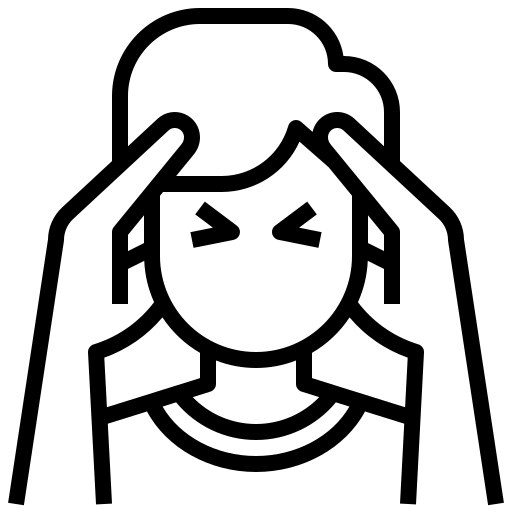
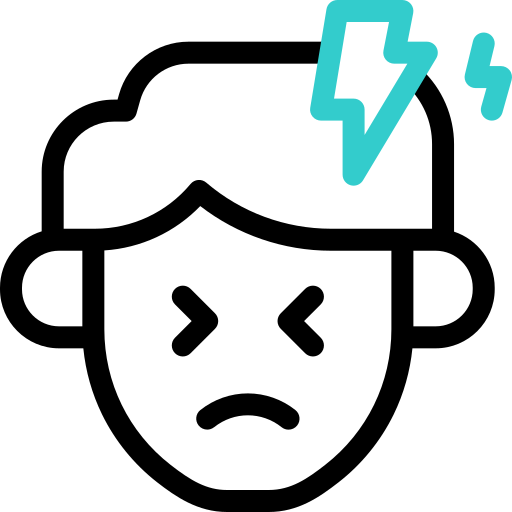
atualizações home

diff --git a/src/screens/Home/index.js b/src/screens/Home/index.js
@@ -1,19 +1,18 @@
 import { useState } from 'react';
-import { View, Text, TextInput, TouchableOpacity, FlatList, ScrollView } from 'react-native';
+import { View, Text, TextInput, TouchableOpacity, FlatList, ScrollView, Image } from 'react-native';
 import { useNavigation } from '@react-navigation/native';
-import LottieView from 'lottie-react-native';
 import styles from './styles';
 
 export default function Home() {
   const navigation = useNavigation();
   const [searchText, setSearchText] = useState('');
 
-  // Categorias com animações Lottie
+  // Categorias com imagens (ajuste os caminhos conforme sua pasta)
   const categorias = [
-    { id: '1', nome: 'Antialérgicos', animacao: require('../../../assets/animacao-alergia.json') },
-    { id: '2', nome: 'Analgésicos', animacao: require('../../../assets/animacao-analgesico.json') },
-    { id: '3', nome: 'Vitaminas', animacao: require('../../../assets/animacao-vitaminas.json') },
-    { id: '4', nome: 'Antibióticos', animacao: require('../../../assets/animacao-antibiotico.json') },
+    { id: '1', nome: 'Antialérgicos', imagem: require('../../../public/alergia.png') },
+    { id: '2', nome: 'Analgésicos', imagem: require('../../../public/dor-de-cabeca.png') },
+    { id: '3', nome: 'Vitaminas', imagem: require('../../../public/vitaminas.png') },
+    { id: '4', nome: 'Antibióticos', imagem: require('../../../public/antibiotico.png') },
   ];
 
   const produtosPromocao = [
@@ -32,14 +31,13 @@ export default function Home() {
     { id: '4', nome: 'HUGEIES', logo: 'H' },
   ];
 
+  // Ao clicar na categoria, navega para a tela Categoria passando o nome
   const renderCategoria = ({ item }) => (
-    <TouchableOpacity style={styles.categoriaItem}>
-      <LottieView
-        source={item.animacao}
-        autoPlay
-        loop
-        style={styles.categoriaIcon}
-      />
+    <TouchableOpacity
+      style={styles.categoriaItem}
+      onPress={() => navigation.navigate('Categoria', { nome: item.nome })}
+    >
+      <Image source={item.imagem} style={styles.categoriaIcon} resizeMode="contain" />
       <Text style={styles.categoriaNome}>{item.nome}</Text>
     </TouchableOpacity>
   );
@@ -78,7 +76,10 @@ export default function Home() {
     <View style={styles.container}>
       {/* Header */}
       <View style={styles.header}>
-        <Text style={styles.headerTitle}>Pharma</Text>
+        <Image
+          source={require('../../../public/LogoEscrita.png')} // ajuste o caminho conforme sua logo
+          style={styles.logo}
+        />
       </View>
 
       {/* Barra de Pesquisa */}
@@ -128,7 +129,7 @@ export default function Home() {
 
         {/* Marcas Populares */}
         <View style={styles.section}>
-          <Text style={styles.sectionTitle}>Marcas Populares</Text>
+          <Text style={styles.sectionTitle}>Laboratórios Populares</Text>
           <FlatList
             data={marcas}
             renderItem={renderMarca}

diff --git a/src/routes/bottonTab.js b/src/routes/bottonTab.js
@@ -1,18 +1,33 @@
 import { createBottomTabNavigator } from "@react-navigation/bottom-tabs";
+import { Ionicons } from '@expo/vector-icons';
 
 import Home from "../screens/Home";
 import Favoritos from "../screens/Favoritos";
 import Perfil from "../screens/Perfil";
 
-
 const Tab = createBottomTabNavigator();
 
 export default function BottonTab({ route }) {
-
     const { usuTemp } = route.params;
 
     return (
-        <Tab.Navigator>
+        <Tab.Navigator
+            screenOptions={({ route }) => ({
+                tabBarIcon: ({ color, size }) => {
+                    let iconName;
+                    if (route.name === 'Home') {
+                        iconName = 'home-outline';
+                    } else if (route.name === 'Favoritos') {
+                        iconName = 'heart-outline';
+                    } else if (route.name === 'Perfil') {
+                        iconName = 'person-outline';
+                    }
+                    return <Ionicons name={iconName} size={size} color={color} />;
+                },
+                tabBarActiveTintColor: '#3498db',
+                tabBarInactiveTintColor: '#888',
+            })}
+        >
             <Tab.Screen name="Home" component={Home} initialParams={{ usuTemp }} />
             <Tab.Screen name="Favoritos" component={Favoritos} />
             <Tab.Screen name="Perfil" component={Perfil} />

diff --git a/src/screens/Home/styles.js b/src/screens/Home/styles.js
@@ -8,9 +8,9 @@ export default StyleSheet.create({
         backgroundColor: '#f8f9fa',
     },
     header: {
-        paddingTop: 50,
+        paddingTop: 0,           // diminuído para aproximar do topo
         paddingHorizontal: 16,
-        paddingBottom: 10,
+        paddingBottom: 0,         // diminuído para aproximar da barra de pesquisa
         backgroundColor: '#fff',
         borderBottomWidth: 1,
         borderBottomColor: '#eee',
@@ -64,7 +64,8 @@ export default StyleSheet.create({
         width: 80,
     },
     categoriaIcon: {
-        fontSize: 30,
+        width: 48,
+        height: 48,
         marginBottom: 8,
     },
     categoriaNome: {
@@ -151,8 +152,11 @@ export default StyleSheet.create({
     espacoFinal: {
         height: 30,
     },
-    categoriaIcon: {
-        width: 48,
-        height: 48,
+    logo: {
+        width: 300,         // ajuste conforme necessário
+        height: 150,         // ajuste conforme necessário
+        resizeMode: 'contain',
+        alignSelf: 'center',
+        marginBottom: 0,
     },
 });

diff --git a/src/routes/stackNavigation.js b/src/routes/stackNavigation.js
@@ -4,7 +4,8 @@ import Login from '../screens/Login';
 import CadUsuario from '../screens/CadUsuario';
 import EsqSenha from '../screens/EsqSenha';
 import Home from '../screens/Home';
-import Pesquisa from '../screens/Pesquisa'; // <-- Adicione esta linha
+import Pesquisa from '../screens/Pesquisa';
+import Categoria from '../screens/Categoria'; // <-- Adicione esta linha
 import BottonTab from "./bottonTab";
 import { Button } from "@react-navigation/elements";
 
@@ -30,6 +31,14 @@ export default function Tab() {
                 component={Pesquisa}
                 options={{
                     headerShown: false,
+                }}
+            />
+            <Stack.Screen
+                name="Categoria"
+                component={Categoria}
+                options={{
+                    headerShown: true,
+                    title: 'Categoria',
                 }}
             />
         </Stack.Navigator>

diff --git a/src/screens/Categoria/index.js b/src/screens/Categoria/index.js
@@ -1,0 +1,18 @@
+import React from 'react';
+import { View, Text, StyleSheet } from 'react-native';
+
+export default function Categoria({ route }) {
+    const { nome } = route.params;
+
+    return (
+        <View style={styles.container}>
+            <Text style={styles.title}>Categoria: {nome}</Text>
+            {/* Adicione aqui o conteúdo da categoria */}
+        </View>
+    );
+}
+
+const styles = StyleSheet.create({
+    container: { flex: 1, justifyContent: 'center', alignItems: 'center' },
+    title: { fontSize: 22, fontWeight: 'bold' },
+});
